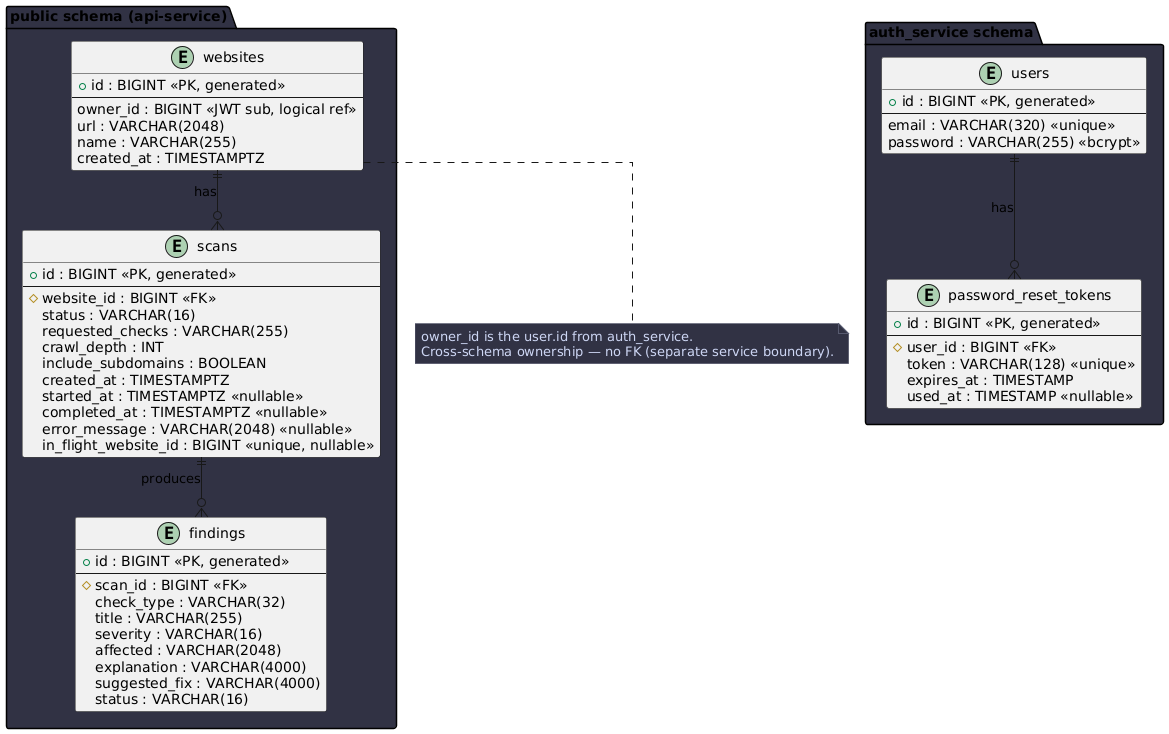
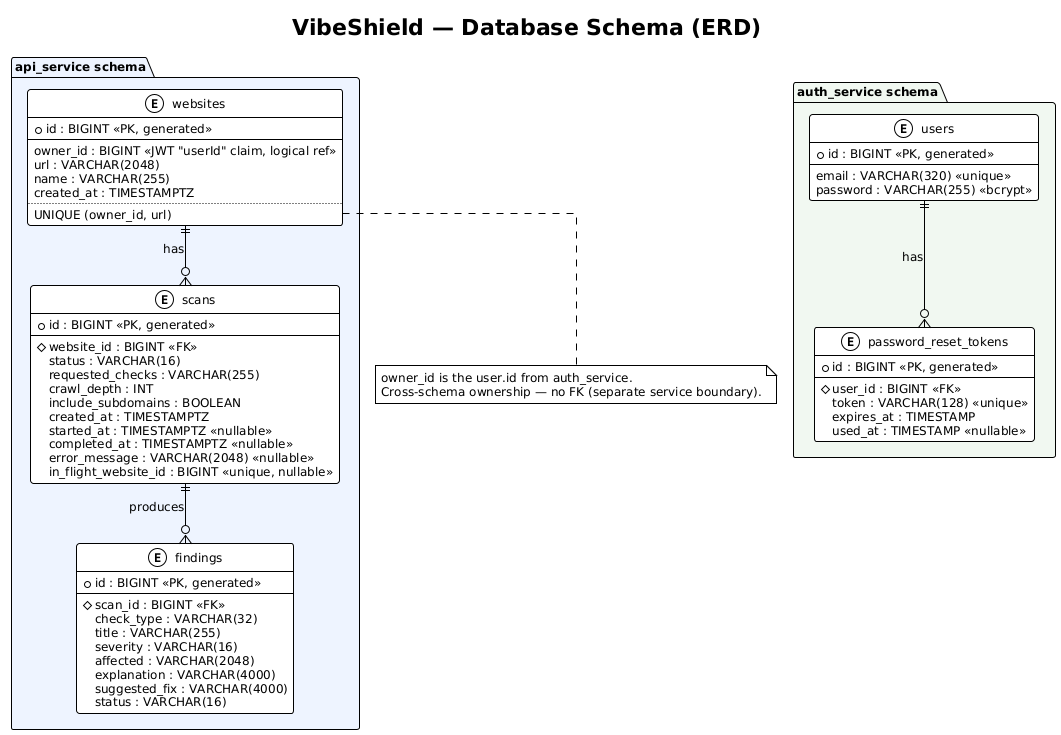
docs(readme): fix broken commands and stale/inaccurate schema references
Audited every section of the README against the actual repo state and
fixed everything that was wrong or would break for someone following
it literally:

- "Running tests" instructed ./gradlew test — no wrapper is committed
  anywhere, so this fails outright. Switched to gradle test (matches
  what the Dockerfiles use), and corrected the langchain-service line:
  there's no pytest suite wired into CI or committed on main yet, only
  install + byte-compile, so the old "pip install && pytest" command
  would fail too (pytest isn't even in requirements.txt).
- Database schema section (+ db-schema.puml/.png) described api-service's
  tables as living in the "public" schema — stale since PR #62 moved
  them into their own api_service schema.
- db-schema.puml was also missing the real UNIQUE(owner_id, url)
  constraint on websites, and mislabeled owner_id as sourced from the
  JWT "sub" claim — traced through the actual token code and confirmed
  sub is the user's email; owner_id actually comes from a separate
  "userId" claim. Both fixed, and the .puml restyled (!theme plain,
  matching pastel package colors) to match the rest of docs/uml/.
- CI/CD section claimed langchain-service is tested via pytest in CI
  (false — byte-compile only) and that CD deploys monitoring via a
  single `kubectl apply -f k8s/monitoring/` (it actually applies ~19
  named manifests individually, in dependency order, deliberately
  skipping the cluster-scoped namespace.yml).
[…]

diff --git a/README.md b/README.md
@@ -47,9 +47,22 @@ Browser → Nginx gateway → React client (Vite + TypeScript)
 **Prerequisites:** Docker + Docker Compose
 
 ```bash
-cp .env.example .env          # fill in OPENAI_API_KEY (and optionally APP_JWT_SECRET)
+cp .env.example .env          # see note below before you skip straight to docker compose
 docker compose up --build     # starts all services + gateway on http://localhost:3000
 ```
+
+> **The GenAI feature needs a provider key, and the UI's default provider is
+> `logos`, not OpenAI.** Filling in only `OPENAI_API_KEY` in `.env` is not
+> enough on its own — the fix-prompt/chat UI defaults to the TUM Logos
+> provider (`client/src/hooks/useLlmProvider.ts`), and `LOGOS_API_KEY` is
+> blank in `.env.example`. Either:
+> - set `LOGOS_API_KEY` too (course-provided), or
+> - fill in `OPENAI_API_KEY` and switch the provider dropdown to **OpenAI**
+>   in the UI before generating a fix prompt
+>
+> Without one of those, the first fix-prompt/chat request returns
+> `503 PROVIDER_NOT_CONFIGURED`. `APP_JWT_SECRET` already has a working dev
+> default in `.env.example` — only change it if you have a reason to.
 
 The gateway exposes everything on port `3000`. API docs are at `http://localhost:3000/api/swagger-ui.html`.
 
@@ -75,10 +88,10 @@ Two logical schemas in one PostgreSQL instance. Full ERD: [`docs/db-schema.png`]
 | `users` | `id`, `email`, `password` (bcrypt) |
 | `password_reset_tokens` | `id`, `user_id`, `token`, `expires_at`, `used_at` |
 
-**`public` schema (api-service)**
+**`api_service` schema**
 | Table | Key columns |
 |---|---|
-| `websites` | `id`, `owner_id` (JWT sub), `url`, `name`, `created_at` |
+| `websites` | `id`, `owner_id` (from the JWT's `userId` claim), `url`, `name`, `created_at` |
 | `scans` | `id`, `website_id`, `status`, `requested_checks`, `crawl_depth`, `started_at`, `completed_at` |
 | `findings` | `id`, `scan_id`, `check_type`, `title`, `severity`, `affected`, `explanation`, `suggested_fix`, `status` |
 
@@ -88,16 +101,17 @@ Schema is managed by Flyway migrations in each service (`services/*/src/main/res
 
 ## CI/CD
 
-**CI** runs on every PR targeting `main` (`.github/workflows/ci.yml`):
+**CI** runs on every PR targeting `main`, and again on the resulting merge commit (`.github/workflows/ci.yml`):
 - OpenAPI spec lint (Redocly) + drift check (generated code matches spec)
-- Build + test: api-service, auth-service, scanner-service (Gradle), langchain-service (pytest), client (Vitest)
+- Build + test: api-service, auth-service, scanner-service (Gradle), client (Vitest)
+- langchain-service: install + byte-compile only — no test suite wired into CI yet
 
 **CD** runs on merge to `main` (`.github/workflows/cd.yml`):
 1. Builds and pushes all service images to GHCR tagged `sha-<commit>` + `latest` (semver tags added automatically when a `v*` git tag is pushed)
 2. Deploys to Kubernetes via Helm (`helm upgrade --install vibeshield ./helm/vibeshield`)
-3. Deploys monitoring stack (`kubectl apply -f k8s/monitoring/`)
+3. Deploys the monitoring stack — applies each manifest under `k8s/monitoring/` individually, in dependency order (configmaps/PVCs before deployments); `namespace.yml` is deliberately not applied here
 
-Required GitHub Actions secrets: `KUBECONFIG_AET`, `POSTGRES_PASSWORD`, `APP_JWT_SECRET`, `OPENAI_API_KEY`.
+Required GitHub Actions secrets: `KUBECONFIG_AET`, `POSTGRES_PASSWORD`, `APP_JWT_SECRET`, `OPENAI_API_KEY`, `LOGOS_API_KEY`.
 
 ---
 
@@ -108,45 +122,110 @@ Deployed to the `ge65poj` namespace alongside the app.
 - **Prometheus** — scrapes `/actuator/prometheus` (Spring Boot) and `/metrics` (FastAPI) from all services
 - **Grafana** — live dashboard at https://ge65poj-monitoring.stud.k8s.aet.cit.tum.de (provisioned from `k8s/monitoring/grafana-dashboard-configmap.yml`)
 - **Loki + Promtail** — log aggregation from all pods
-- **Alert rules** (`k8s/monitoring/prometheus-configmap.yml`): ServiceDown (1 min), HighErrorRate (>5% 5xx), SlowResponseTime (P95 > 2s)
-
+- **Alert rules** (`k8s/monitoring/prometheus-configmap.yml`): ServiceDown (1 min), 
+HighErrorRate (>5% 5xx, sustained 2 min), SlowResponseTime (P95 > 2s, sustained 5 min)
 ---
 
 ## Running tests
 
 ```bash
-# Spring Boot services
-cd services/api-service && ./gradlew test
-cd services/auth-service && ./gradlew test
-cd services/scanner-service && ./gradlew test
+# Spring Boot services (no Gradle wrapper committed — uses a system-installed
+# Gradle matching the version the Dockerfiles build with, currently 8.10.2)
+cd services/api-service && gradle test
+cd services/auth-service && gradle test
+cd services/scanner-service && gradle test
 
-# Python GenAI service
-cd services/langchain-service && pip install -r requirements.txt && pytest
+# Python GenAI service — no test suite wired in yet; CI only byte-compiles it
+cd services/langchain-service && pip install -r requirements.txt && python -m compileall app
 
 # React client
 cd client && npm ci && npm test
 ```
 
-All tests run automatically in CI on every PR.
+All of the above run automatically in CI on every PR — except langchain-service,
+which is currently only build-checked (byte-compiled), not tested.
 
 ---
 
 ## Kubernetes deployment
 
 The app is deployed to the TUM course cluster (Rancher) under namespace `ge65poj`.
+CD does this automatically on every merge to `main`; the same commands can be
+run manually (e.g. to test a branch before merging), given a kubeconfig
+already scoped to `ge65poj`.
+
+> **`-n ge65poj` is required, not optional.** Course-cluster accounts are
+> namespace-scoped — omitting it silently targets the `default` namespace
+> instead, where you have no permissions, and fails with a confusing
+> `"forbidden ... in the namespace default"` error rather than an obvious
+> "wrong namespace" message.
 
 ```bash
-# Deploy app
+# Deploy app — pin images.tag to a real tag from GHCR (e.g. sha-<commit>);
+# omitting it deploys whatever :latest currently is, which may not be what
+# you expect.
 helm upgrade --install vibeshield ./helm/vibeshield -n ge65poj \
-  --set secrets.jwtSecret=<secret> \
-  --set secrets.dbPassword=<password> \
-  --set secrets.openaiApiKey=<key>
+  --set-string images.tag=<tag> \
+  --set-string secrets.jwtSecret=<secret> \
+  --set-string secrets.dbPassword=<password> \
+  --set-string secrets.openaiApiKey=<key> \
+  --set-string secrets.logosApiKey=<key>
 
-# Deploy monitoring
-kubectl apply -f k8s/monitoring/ -n ge65poj
+# Deploy monitoring — apply each manifest individually, same as CD; skip
+# namespace.yml (cluster-scoped, already provisioned by the course, and
+# likely forbidden under this cluster's namespace-scoped RBAC anyway).
+kubectl create serviceaccount prometheus -n ge65poj --dry-run=client -o yaml | kubectl apply -f -
+kubectl apply -f k8s/monitoring/rbac.yml -n ge65poj
+kubectl apply -f k8s/monitoring/prometheus-configmap.yml -n ge65poj
+kubectl apply -f k8s/monitoring/prometheus-pvc.yml -n ge65poj
+kubectl apply -f k8s/monitoring/prometheus-deployment.yml -n ge65poj
+kubectl apply -f k8s/monitoring/prometheus-service.yml -n ge65poj
+kubectl apply -f k8s/monitoring/loki-configmap.yml -n ge65poj
+kubectl apply -f k8s/monitoring/loki-pvc.yml -n ge65poj
+kubectl apply -f k8s/monitoring/loki-deployment.yml -n ge65poj
+kubectl apply -f k8s/monitoring/loki-service.yml -n ge65poj
+kubectl apply -f k8s/monitoring/promtail-configmap.yml -n ge65poj
+kubectl apply -f k8s/monitoring/promtail-daemonset.yml -n ge65poj
+kubectl apply -f k8s/monitoring/grafana-secret.yml -n ge65poj
+kubectl apply -f k8s/monitoring/grafana-configmap.yml -n ge65poj
+kubectl apply -f k8s/monitoring/grafana-dashboard-configmap.yml -n ge65poj
+kubectl apply -f k8s/monitoring/grafana-pvc.yml -n ge65poj
+kubectl apply -f k8s/monitoring/grafana-deployment.yml -n ge65poj
+kubectl apply -f k8s/monitoring/grafana-service.yml -n ge65poj
+kubectl apply -f k8s/monitoring/grafana-ingress.yml -n ge65poj
 ```
 
+> **If `helm upgrade` fails with `"invalid ownership metadata"`:** the
+> `vibeshield-secrets` Secret was touched outside Helm (e.g. a direct
+> `kubectl apply`/`kubectl edit`) and lost its Helm-managed ownership
+> annotations. Re-adopt it before retrying:
+> ```bash
+> kubectl annotate secret vibeshield-secrets -n ge65poj \
+>   meta.helm.sh/release-name=vibeshield \
+>   meta.helm.sh/release-namespace=ge65poj --overwrite
+> kubectl label secret vibeshield-secrets -n ge65poj \
+>   app.kubernetes.io/managed-by=Helm --overwrite
+> ```
+
 Helm charts are in `helm/vibeshield/`. Kubernetes manifests for monitoring are in `k8s/monitoring/`.
+
+---
+
+## Azure VM deployment
+
+The second required cloud target: a plain Azure VM running the same Docker
+Compose stack as local dev (not Kubernetes). Deploys automatically on every
+merge to `main` via `.github/workflows/deploy.yml`, which SSHes in, copies
+the repo, writes a `.env` from secrets, and runs `docker compose up -d --build`.
+
+Required GitHub Actions secrets: `AZURE_PUBLIC_IP`, `AZURE_USER`,
+`AZURE_PRIVATE_KEY`, `POSTGRES_PASSWORD`, `APP_JWT_SECRET`, `OPENAI_API_KEY`.
+
+The VM itself isn't provisioned by CI — it's a standalone Azure VM someone
+sets up once (see the TUM Azure4Students guide), matching the port mapping
+in `docker-compose.yml` (`3000:80`, `3443:443` on the gateway) with inbound
+NSG rules for `22` and `3000` open, and a **static** public IP so the
+`AZURE_PUBLIC_IP` secret doesn't silently go stale on a VM restart.
 
 ---
 
@@ -158,4 +237,3 @@ Helm charts are in `helm/vibeshield/`. Kubernetes manifests for monitoring are i
 | Julian Jungnitz | *(TBD)* |
 | Tim Dreher | *(TBD)* |
 
-> Fill in areas before the July 17th deadline — per-student responsibilities are an automatic-fail-adjacent deliverable per the course brief.
